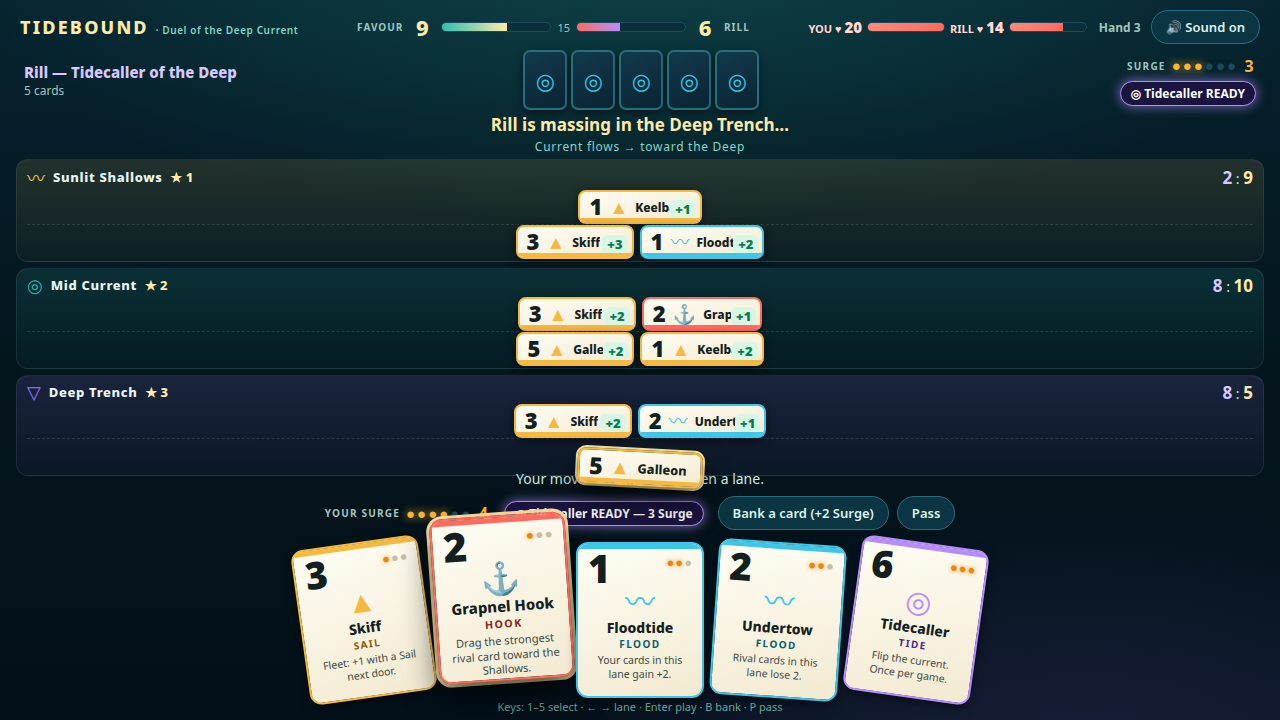
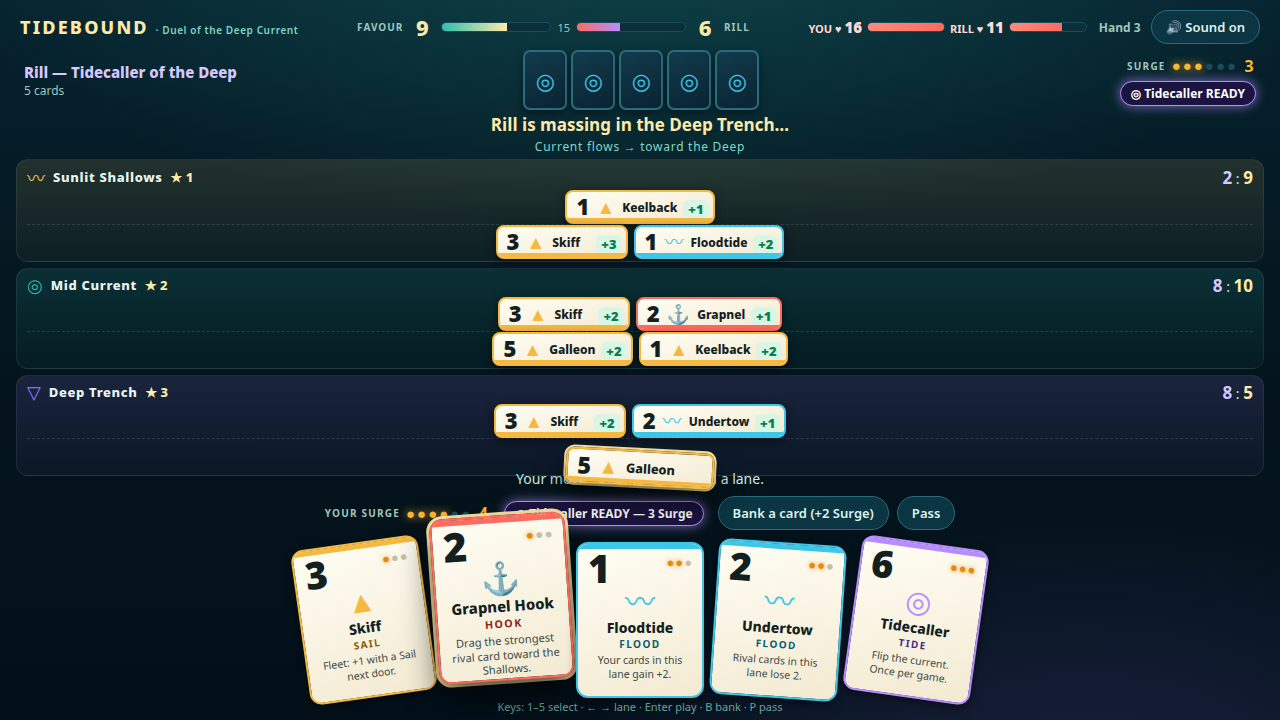
Fix lane-chip name truncation; re-take all 4 screenshots
In-lane card names (Floodtide, Grapnel, Undertow, Keelback) were
ellipsised by flex-shrink + the absolute bonus badge. Name now
flex-shrink:0 with 26px right padding so the +N badge never covers it.
Screenshots re-taken in headless Chromium after the hull 20->16 change.

diff --git a/game/styles.css b/game/styles.css
@@ -139,7 +139,7 @@ button:disabled { opacity: 0.4; cursor: default; }
 .card.in-lane .card-str { font-size: 22px; }
 .card.in-lane .card-cost, .card.in-lane .card-fam, .card.in-lane .card-text { display: none; }
 .card.in-lane .card-glyph { font-size: 19px; margin-top: 0; }
-.card.in-lane .card-name { font-size: 12px; margin-top: 0; }
+.card.in-lane .card-name { font-size: 12px; margin-top: 0; flex-shrink: 0; padding-right: 26px; }
 .card.mid-slide { transform: translateY(12px) rotate(3deg) scale(1.06); box-shadow: 0 14px 26px rgba(0, 0, 0, 0.6), 0 0 0 2px #ffe9a8; z-index: 5; }
 
 /* --- player zone: hand --- */
